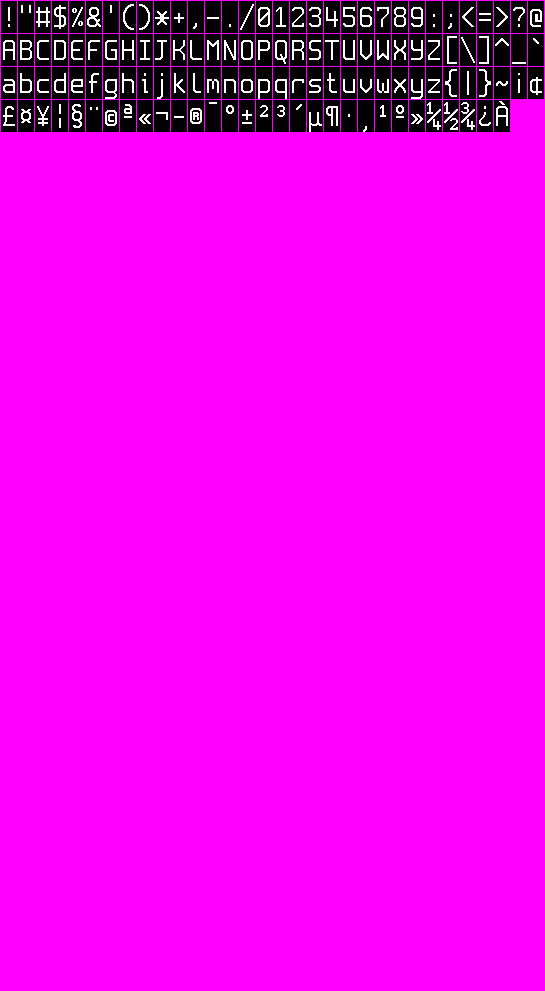
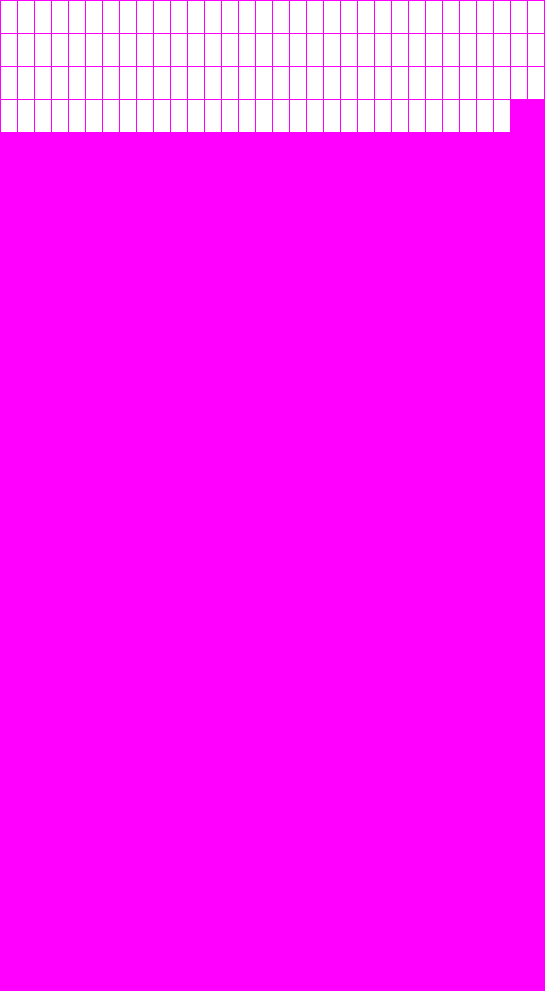
Got font generator working right

Changed region(s): [[0.0, 0.0, 0.9982, 0.1514]]

diff --git a/fonts/fontgen.c b/fonts/fontgen.c
@@ -8,7 +8,7 @@
 #define FNT_WIDTH 16
 #define FNT_HEIGHT 32
 
-#define BG_COLOR BLACK
+#define BG_COLOR BLANK
 #define FG_COLOR WHITE
 #define KY_COLOR MAGENTA
 
